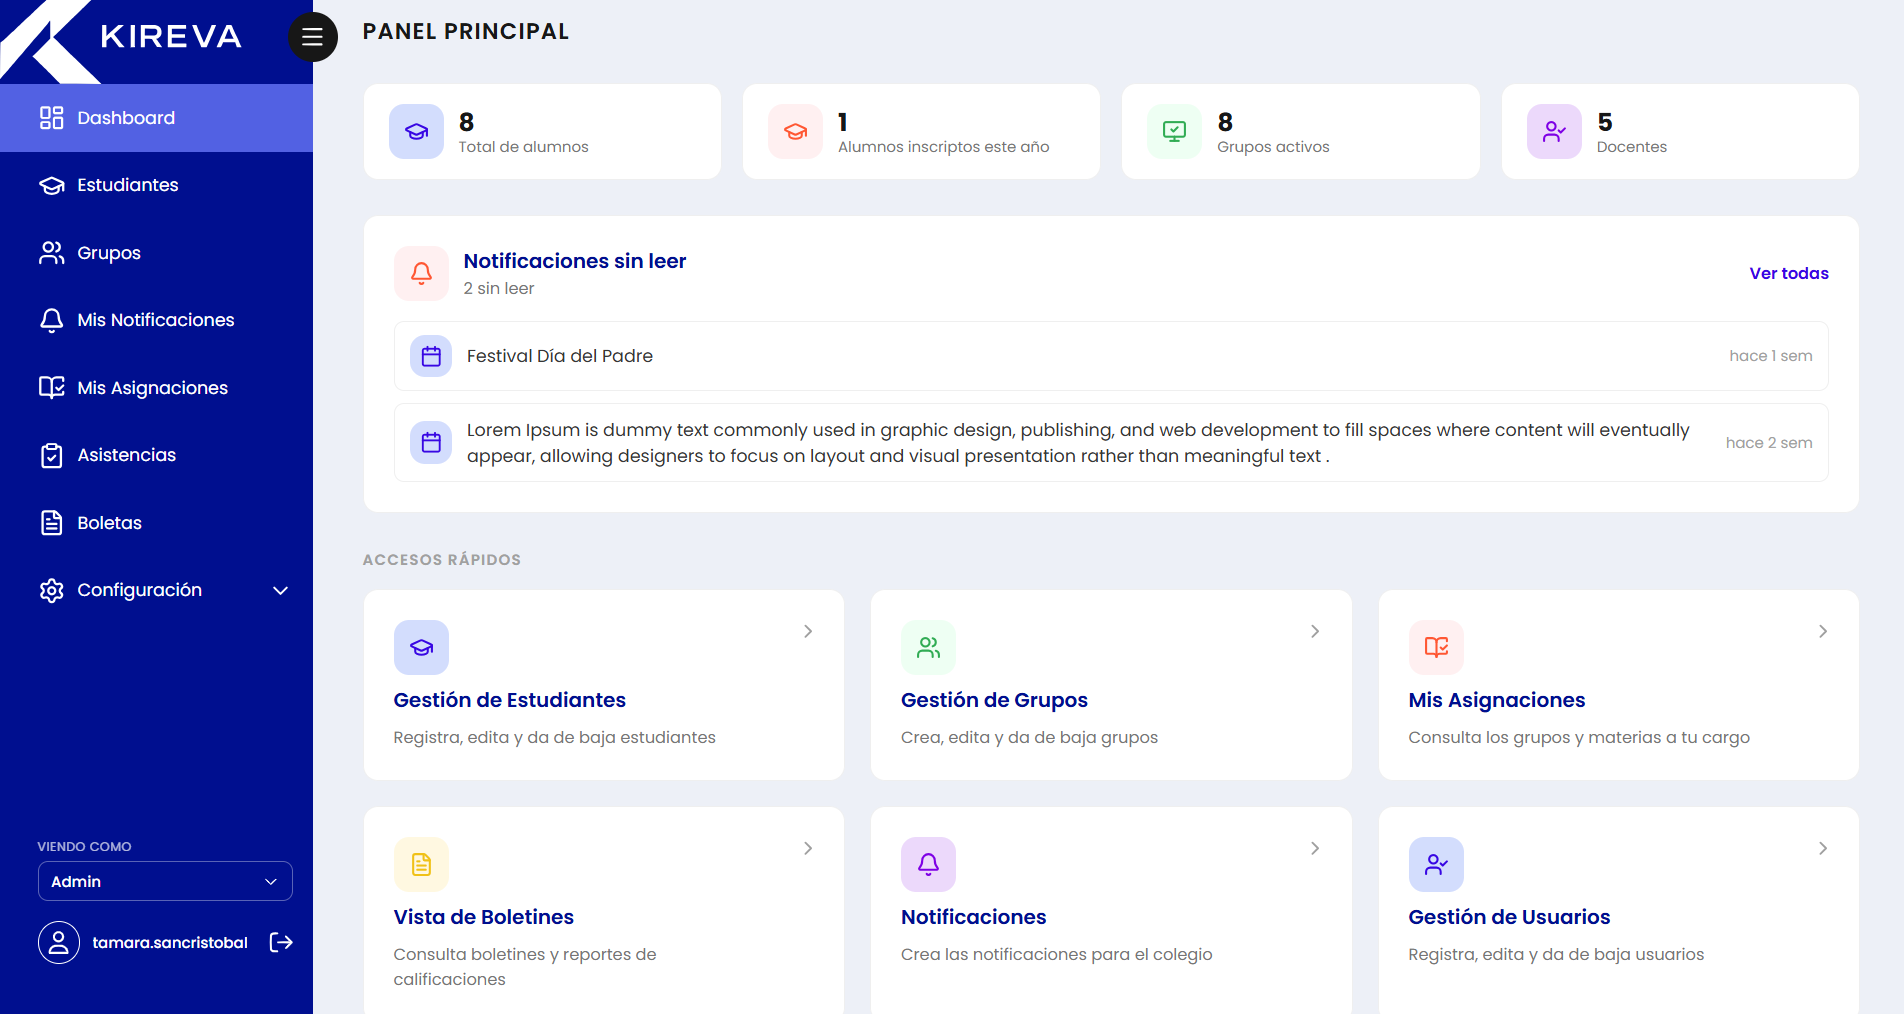
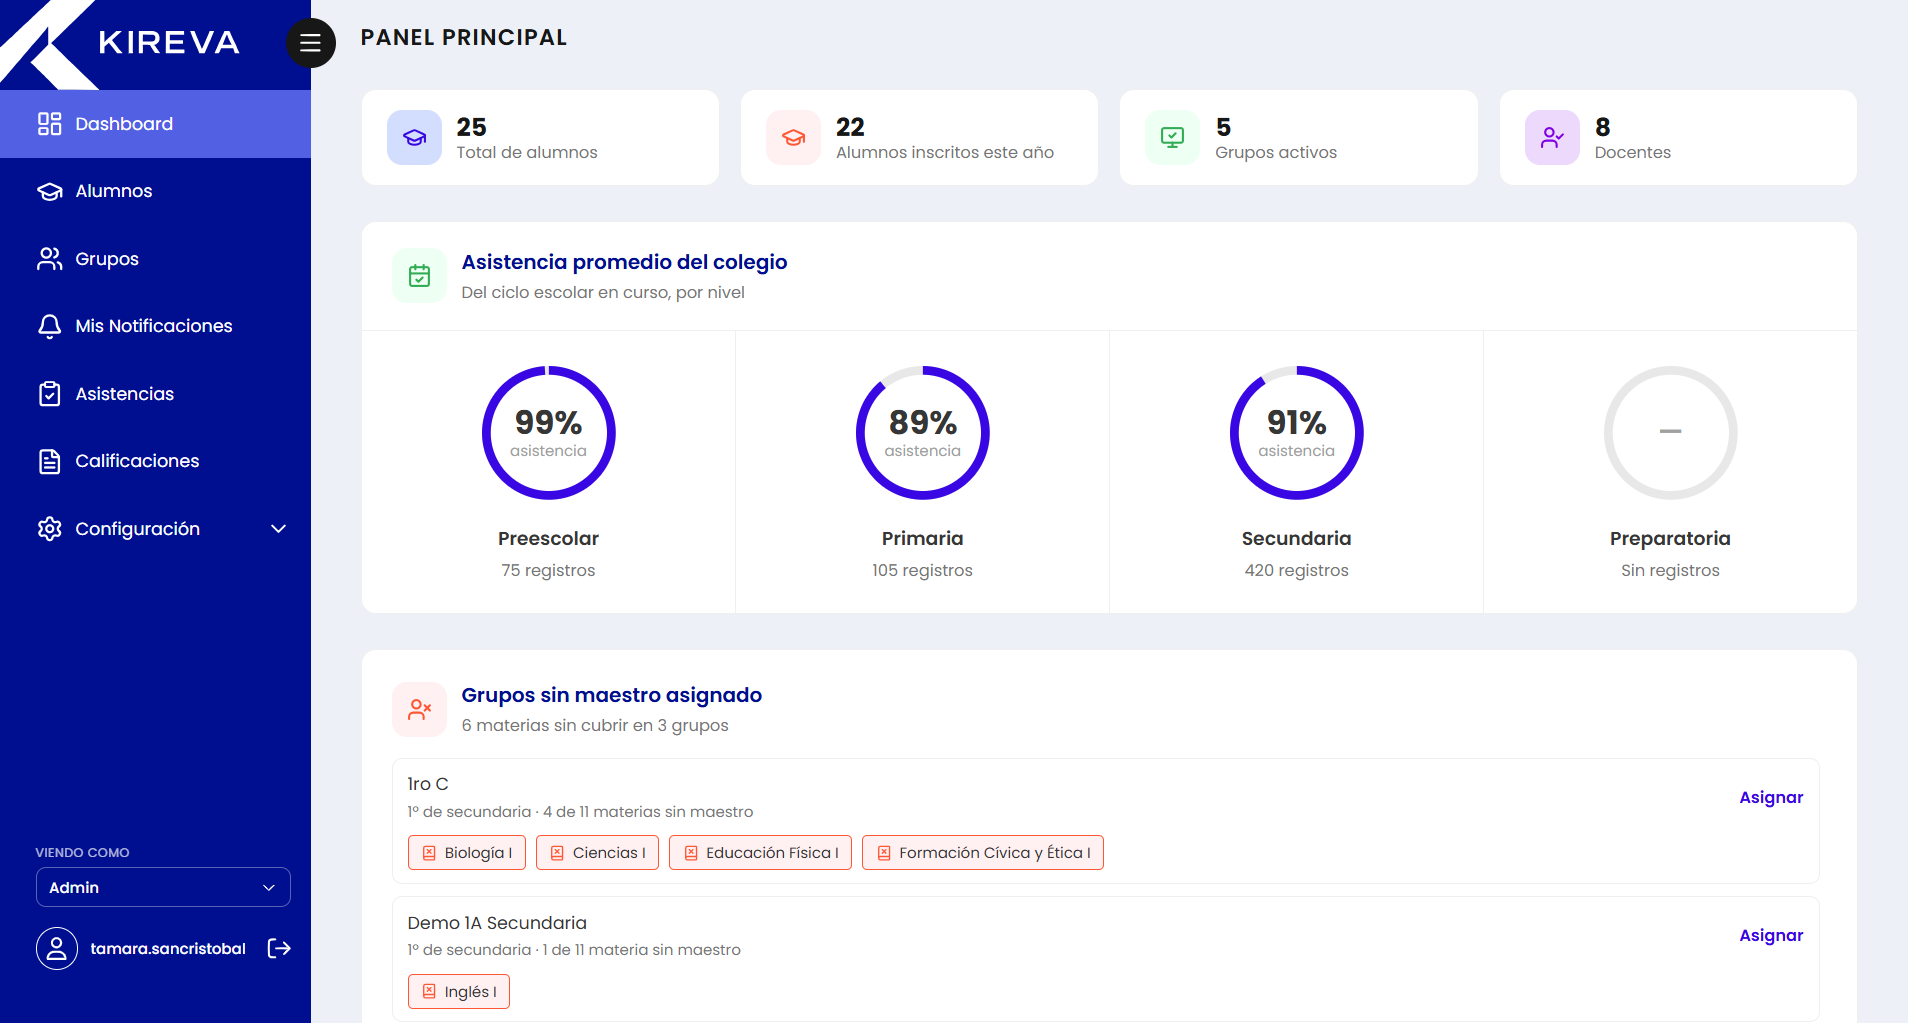
Update kireva screenshots

diff --git a/src/data/content.js b/src/data/content.js
@@ -10,7 +10,7 @@ import adidasAdminStock from '../assets/adidas-by-korn/admin-stock.png';
 import adidasAdminOrders from '../assets/adidas-by-korn/admin-orders.png';
 import kireva from '../assets/kireva.png';
 import kirevaDashboard from '../assets/kireva/dashboard.png';
-import kirevaCreateStudent from '../assets/kireva/create-student.png';
+import kirevaAttendance from '../assets/kireva/attendance.png';
 import kirevaCreateGroup from '../assets/kireva/create-group.png';
 import kirevaCreateScore from '../assets/kireva/create-score.png';
 import tallied from '../assets/tallied.png';
@@ -147,7 +147,7 @@ export const PROJECTS = [
     coverAlt: 'Kireva school management platform — admin dashboard',
     shots: [
       { src: kirevaDashboard, label: 'Admin dashboard — school-wide overview and quick actions' },
-      { src: kirevaCreateStudent, label: 'Student record — profile, health details and guardians' },
+      { src: kirevaAttendance, label: 'Student record — profile, health details and guardians' },
       { src: kirevaCreateGroup, label: 'Group setup — subjects, teacher assignment and roster' },
       { src: kirevaCreateScore, label: 'Score group — grades and evaluation areas' },
     ],
